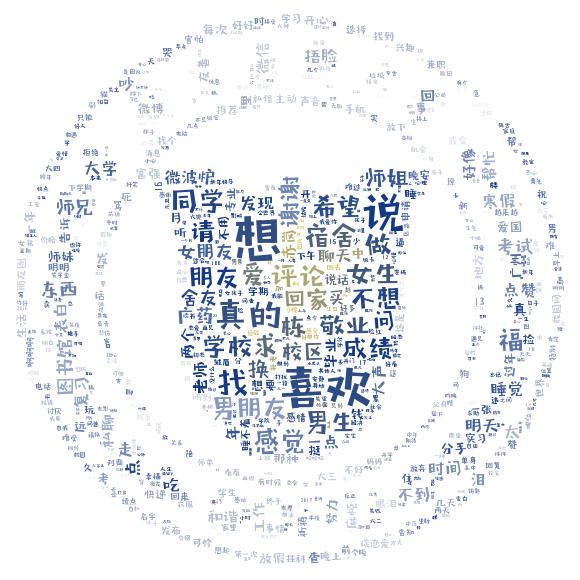
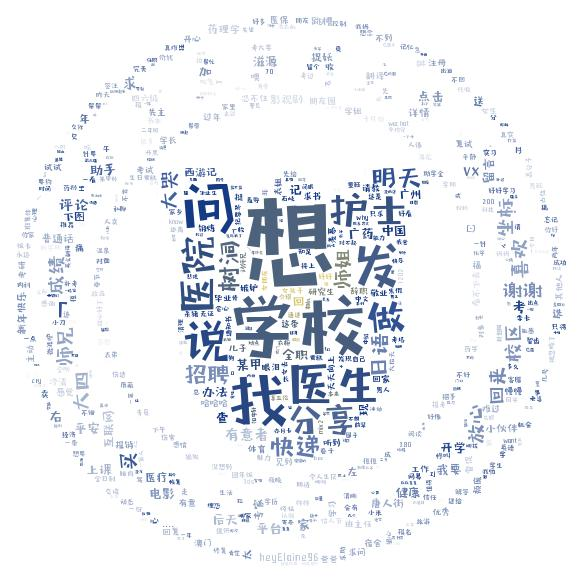
fix bugs

diff --git a/web/templates/report.html b/web/templates/report.html
@@ -981,9 +981,9 @@
             <div id="img-content">
 
                 <h2 class="rich_media_title" id="activity-name">
-                    {{title}} </h2>
+                    {{report.year}}年{{report.month}}月树洞总结!!! </h2>
                 <div id="meta_content" class="rich_media_meta_list">
-                    <em id="post-date" class="rich_media_meta rich_media_meta_text">{{date}}</em>
+                    <em id="post-date" class="rich_media_meta rich_media_meta_text">{{report.date}}</em>
 
 
                     <div id="js_profile_qrcode" class="profile_container" style="display:none;">
@@ -1001,39 +1001,36 @@
 
 
 
-                    <p>这个月一共有发了{{count}}条树洞，谢谢大家支持！！！</p>
+                    <p>这个月一共有发了{{report.count}}条树洞，谢谢大家支持！！！</p>
                     <br>
                     <p><img  data-ratio="1.0130434782608695" data-type="jpeg" data-w="690" data-s="300,640"
                             data-copyright="0"
-                            src="../static/word_cloud.jpg"/>
+                            src="../static/word_cloud_{{report.year}}_{{report.month}}.jpg"/>
                     </p>
                     <p>看看这个月的词云图片，有没有你说过的词在里面</p>
 
                     <p><img data-ratio="1.0130434782608695" data-type="jpeg" data-w="690" data-s="300,640"
                             data-copyright="0"
-                            src="../static/bar.jpg"/>
+                            src="../static/bar_{{report.year}}_{{report.month}}.jpg"/>
                     </p>
                     <p>看看最近几个月树洞的发布数量</p>
                     <p><br/></p>
                     <p><br/></p>
                     <p><img data-ratio="1.0130434782608695" data-type="jpeg" data-w="690" data-s="300,640"
                             data-copyright="0"
-                            src="../static/pie.jpg"/>
+                            src="../static/pie_{{report.year}}_{{report.month}}.jpg"/>
                     </p>
                     <p style="align-content: center">这是中山校区和大学城校区的使用情况对比</p>
                     <p>（统计结果可能与实际情况会有偏差）</p>
                     <p><br/></p>
                     <p><img data-ratio="1.0130434782608695" data-type="jpeg" data-w="690" data-s="300,640"
                             data-copyright="0"
-                            src="../static/basic.jpg"/>
+                            src="../static/basic_{{report.year}}_{{report.month}}.jpg"/>
                     </p>
                     <p>看看你是不是和其他人一样，都喜欢在那个时候发树洞</p>
                     <p><br/></p>
-                    <p><img data-ratio="1" data-type="jpeg" data-w="750" data-s="300,640" data-copyright="0"
-                            data-src="{{sa}}"/>
-                    </p>
                     <p><img data-backh="102" data-backw="184" data-copyright="0" data-ratio="0.5543478260869565"
-                            src="../static/scatter.jpg"
+                            src="../static/scatter_{{report.year}}_{{report.month}}.jpg"
                             data-type="gif" data-w="184" style="width: 100%;height: auto;"></p>
                     <p><br/></p>
                     <p>这个散点图告诉我们，越密集的地方就是大伙喜欢发树洞的时间了。</p>
@@ -1092,7 +1089,6 @@
 
         </div>
 
-        <div class="rich_media_area_primary sougou" id="sg_tj" style="display:none"></div>
 
 
         <div class="rich_media_area_extra">

diff --git a/weibo_nlp/weibo_count.py b/weibo_nlp/weibo_count.py
@@ -22,7 +22,9 @@ def zs_dxc_count(weibo_query):
     # 获取带有大学城和中山标签的树洞数量,调用get_pic生成饼状图
     zs_weibo_count = weibo_query.filter(Weibo.tags.any(Tag.name == '中山')).count()
     dxc_weibo_count = weibo_query.filter(Weibo.tags.any(Tag.name == '大学城')).count()
-    get_pic(data=[zs_weibo_count, dxc_weibo_count], index=['中山', '大学城'], kind='pie', title='中山-大学城发送数量对比')
+    weibo_publish_time = weibo_query.first().publish_time
+    get_pic(data=[zs_weibo_count, dxc_weibo_count], index=['中山', '大学城'], kind='pie', title='中山-大学城发送数量对比',
+            year=weibo_publish_time.year, month=weibo_publish_time.month)
     return zs_weibo_count, dxc_weibo_count
 
 
@@ -42,11 +44,15 @@ def daily_weibo_count(weibo_query):
             daily_count[hour] += 1
     sorted(daily_count)
     #  用daily_count生成当月每小时数量统计折线图
-    get_pic(list(daily_count.values()), index=list(daily_count.keys()), kind='basic', title='当月每小时数量统计',
-            x_name='hours', y_name='count')
+    weibo = weibo_query.first()
+    year = weibo.publish_time.year
+    month = weibo.publish_time.month
+    get_pic(data=list(daily_count.values()), index=list(daily_count.keys()), kind='basic', title='当月每小时数量统计',
+            year=year, month=month, x_name='hours', y_name='count')
 
     # 用data_array生成全月树洞发布散点图
-    get_pic(data=data_array, kind='scatter', title='全月树洞发布散点图', y_max=today.day + 1)
+    get_pic(data=data_array, kind='scatter', title='全月树洞发布散点图', year=year, month=month,
+            y_max=today.day + 1)
 
 
 def _get_year_month(now, n=0):
@@ -68,14 +74,20 @@ def _get_year_month(now, n=0):
     return year, thismon
 
 
-def recently_weibo_count(month_ago, year=None, month=None, ):
+def recently_weibo_count(month_ago, year=None, month=None):
     from sqlalchemy import extract, func
-
-    year, month = _get_year_month(today, month_ago)  # 获取几个月前的年份与月份
-    six_month_ago = datetime.date(year, month, 1)
+    if not year and not month:
+        end_date = today
+    else:
+        if month == 12:
+            end_date = datetime.date(year=year, month=month, day=31)
+        else:
+            end_date = datetime.date(year=year, month=month + 1, day=1) - datetime.timedelta(days=1)
+    year, month = _get_year_month(end_date, month_ago)  # 获取几个月前的年份与月份
+    month_ago_date = datetime.date(year, month, 1)
     weibo_query = db.session.query(extract('month', Weibo.publish_time).label('month'),
                                    func.count('*').label('count')).filter(
-        Weibo.publish_time.between(six_month_ago, today)).group_by('month').all()
+        Weibo.publish_time.between(month_ago_date, end_date)).group_by('month').all()
     month_list = []
     while len(month_list) <= month_ago:
         month_list.append(month)
@@ -89,10 +101,11 @@ def recently_weibo_count(month_ago, year=None, month=None, ):
             if weibo.month == m:
                 index.append(weibo[0])
                 res.append(weibo[1])
-    get_pic(data=res, index=index, kind='bar', title='近几月树洞统计', x_name='月份', y_name='数量')
+    get_pic(data=res, index=index, kind='bar', title='近几月树洞统计', year=end_date.year, month=end_date.month, x_name='月份',
+            y_name='数量')
 
 
-def get_pic(data, kind, title, index=None, x_name=None, y_name=None, y_max=None):
+def get_pic(data, kind, title, year, month, index=None, x_name=None, y_name=None, y_max=None):
     # 使用python的pandas和matplotlib生成统计图片
     plt.clf()
     if kind == 'bar':
@@ -120,7 +133,7 @@ def get_pic(data, kind, title, index=None, x_name=None, y_name=None, y_max=None)
         plt.yticks(np.arange(1, y_max + 1, 2))
     plt.title(title, fontproperties=prop)
 
-    file_name = "{}.jpg".format(kind)
+    file_name = "{}_{}_{}.jpg".format(kind, year, month)
     # 保存图片
     save_path = path.join(path.dirname(d), 'web/static', file_name)
     savefig(save_path)

diff --git a/web/tasks.py b/web/tasks.py
@@ -198,7 +198,11 @@ def get_comment_message():
     name="web.tasks.add_weibo_tags"
 )
 def add_weibo_tags():
-    weibo_list = Weibo.query.filter(~Weibo.tags.any()).order_by(Weibo.publish_time.desc()).paginate(1, 100).items
+    from sqlalchemy import extract, and_
+    weibo_list = Weibo.query.filter(and_(
+        extract('year', Weibo.publish_time) == 2018,
+        extract('month', Weibo.publish_time) == 2)).filter(~Weibo.tags.any()).order_by(
+        Weibo.publish_time.desc()).paginate(1, 1000).items
     for weibo in weibo_list:
         if not weibo.tags:
             if '中山' in weibo.content or '大山' in weibo.content:
@@ -225,18 +229,35 @@ def weibo_report():
     from weibo_nlp.word_cloud import get_word_cloud
     from weibo_nlp.weibo_count import zs_dxc_count, daily_weibo_count, recently_weibo_count
     from sqlalchemy import extract, and_
+    from web.models import Report_detail
+    from elasticsearch_tool.init_models import Weixin
     today = datetime.date.today()
+    if today.month == 1:
+        report_year = today.year - 1
+        report_month = today.month
+    else:
+        report_year = today.year
+        report_month = today.month - 1
     weibo_list = Weibo.query.filter(and_(
-        extract('year', Weibo.publish_time) == today.year,
-        extract('month', Weibo.publish_time) == today.month - 1))
-    get_word_cloud([o.content for o in weibo_list.all()])
+        extract('year', Weibo.publish_time) == report_year,
+        extract('month', Weibo.publish_time) == report_month))
+    file_name = get_word_cloud([o.content for o in weibo_list.all()], report_year, report_month)
     zs_dxc_count(weibo_query=weibo_list)
     daily_weibo_count(weibo_query=weibo_list)
-    recently_weibo_count(6)
-
-
-class ReportData():
-    def __init__(self):
-        self.title = ""
-        self.date = None
-        self.count = 0
+    recently_weibo_count(6, report_year, report_month)
+    weibo_count = weibo_list.count()
+    report_id = "{}_{}".format(report_year, report_month)
+    report_res = Report_detail.get(report_id)
+    report_res.month = report_month
+    report_res.year = report_year
+    report_res.count = weibo_count
+    db.session.add(report_res)
+    weixin = Weixin()
+    weixin.title = "{}年{}月度树洞总结!!!"
+    weixin.content = " "
+    weixin.publish_time = datetime.datetime.strptime(str(today), "%Y-%m-%d")
+    weixin.cover = "https://www.caiwc.cn/static/{}".format(file_name)
+    weixin.url = "https://www.caiwc.cn/api/report?year={}&month={}".format(report_year, report_month)
+    weixin.gzh = "本平台"
+    weixin.save()
+    db.session.commit()

diff --git a/web/controllers/main.py b/web/controllers/main.py
@@ -32,13 +32,38 @@ def index():
 
 @main_blueprint.route('/api/report')
 def report():
-    return render_template('report.html', count=108766)
+    from web.models import Report_detail
+    arg = request.args
+    year = arg.get('year', None)
+    month = arg.get('month', None)
+    report_id = "{}_{}".format(year, month)
+    report = Report_detail.get(id=report_id, ignore=False)
+    report_dict = Report_detail.to_dict(report)
+    return render_template('report.html', report=report_dict)
 
 
 @main_blueprint.route('/api/test')
 def test():
+    from weibo_nlp.weibo_count import recently_weibo_count, zs_dxc_count, daily_weibo_count
+    from weibo_nlp.word_cloud import get_word_cloud
     from web.models import Weibo
-    Weibo.analysis_sentiment('oY3oh0Y1z_vypBY31UKFuANfBBF4',1)
+    from sqlalchemy import and_, extract
+    import datetime
+    arg = request.args
+    year = arg.get('year', None)
+    month = arg.get('month', None)
+    today = datetime.date.today()
+    if not month:
+        month = today.month
+    if not year:
+        year = today.year
+    weibo_list = Weibo.query.filter(and_(
+        extract('year', Weibo.publish_time) == year,
+        extract('month', Weibo.publish_time) == month))
+    zs_dxc_count(weibo_list)
+    recently_weibo_count(6)
+    daily_weibo_count(weibo_list)
+    get_word_cloud([o.content for o in weibo_list.all()], year, month)
     return 'end'
 
 
@@ -267,4 +292,3 @@ def get_weibo_tags():
     from web.models import Tag
     ms = Tag.query.all()
     return jsonify(Tag.to_list(ms))
-

diff --git a/weibo_nlp/word_cloud.py b/weibo_nlp/word_cloud.py
@@ -9,7 +9,7 @@ stop_words_path = path.join(d, 'stop_word.txt')
 add_stop = {'大山', '大学城', '中山'}
 
 
-def get_word_cloud(content_list):
+def get_word_cloud(content_list, year, month):
     back_photo = imread(path.join(d, 'img.jpg'))
     font_path = path.join(d, "Chinese.ttf")
 
@@ -28,8 +28,10 @@ def get_word_cloud(content_list):
     wc.generate_from_frequencies(freq_dict)
     # 生成词云图片
     wc.recolor(color_func=image_colors)
-    wc.to_file(path.join(path.dirname(d), 'web/static', 'word_cloud.jpg'))
+    file_name = 'word_cloud_{}_{}.jpg'.format(year, month)
+    wc.to_file(path.join(path.dirname(d), 'web/static', file_name))
     # 保存图片
+    return file_name
 
 
 def get_freq_word(content_list):

diff --git a/web/models.py b/web/models.py
@@ -478,3 +478,24 @@ class Report_detail(db.Model):
     year = db.Column(db.Integer())
     key_word = db.Column(db.String(length=256))
     memo = db.Column(db.JSON())
+
+    @classmethod
+    def get(cls, id, ignore=True):
+        m = cls.query.filter_by(id=id).first()
+        if not m:
+            if not ignore:
+                return None
+            m = cls()
+            m.id = id
+        return m
+
+    @classmethod
+    def to_dict(cls, m):
+        tmp = {}
+        tmp['count'] = m.count
+        tmp['year'] = m.year
+        tmp['month'] = m.month
+        tmp['key_word'] = m.key_word
+        tmp['memo'] = m.memo
+        tmp['date'] = "{}-{}-{}".format(tmp['year'], tmp['month'], 1)
+        return tmp
